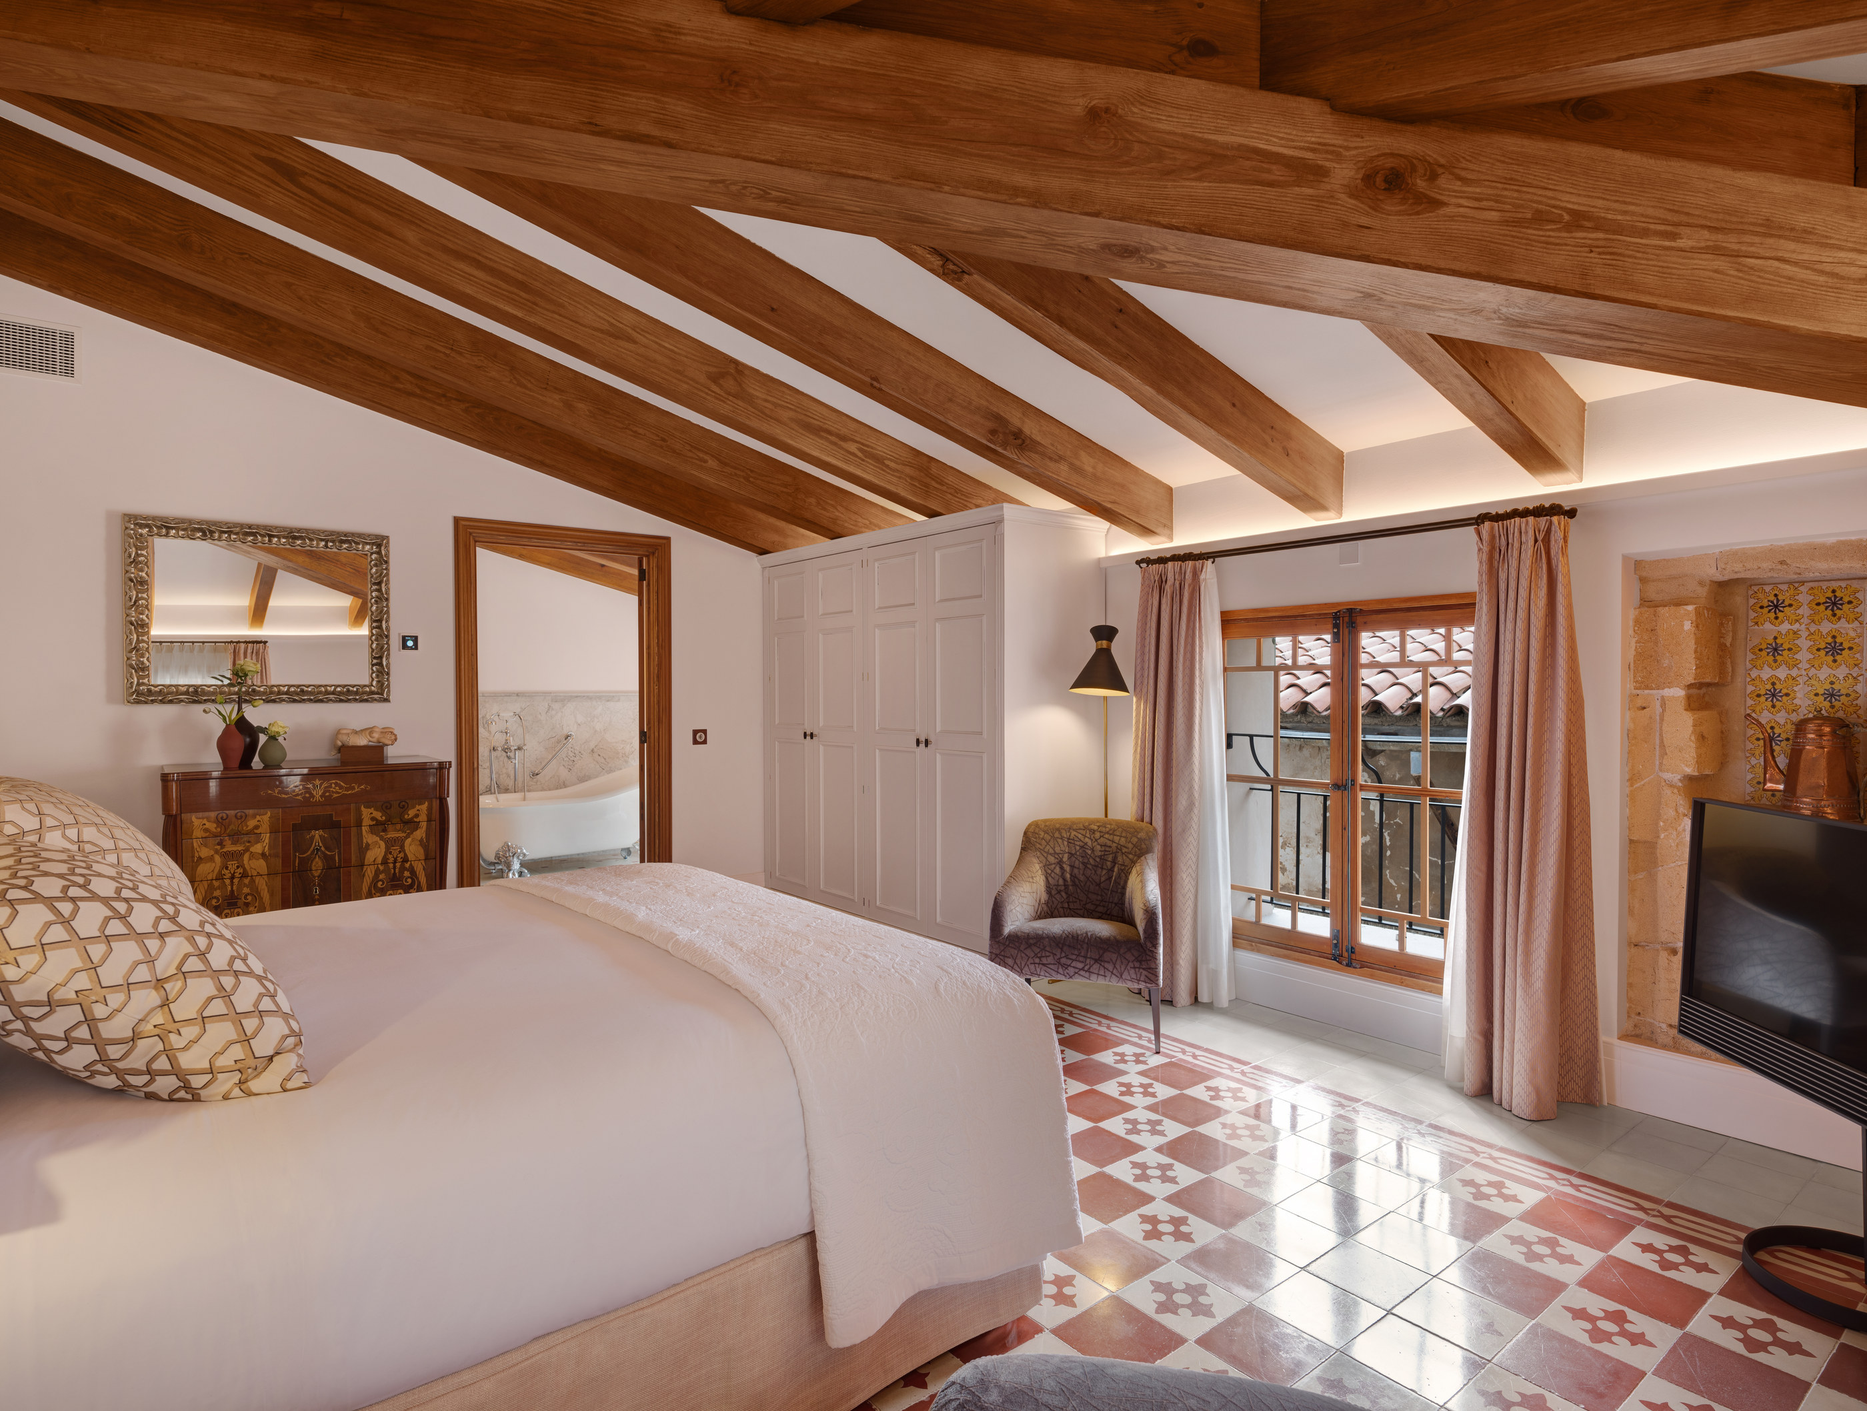
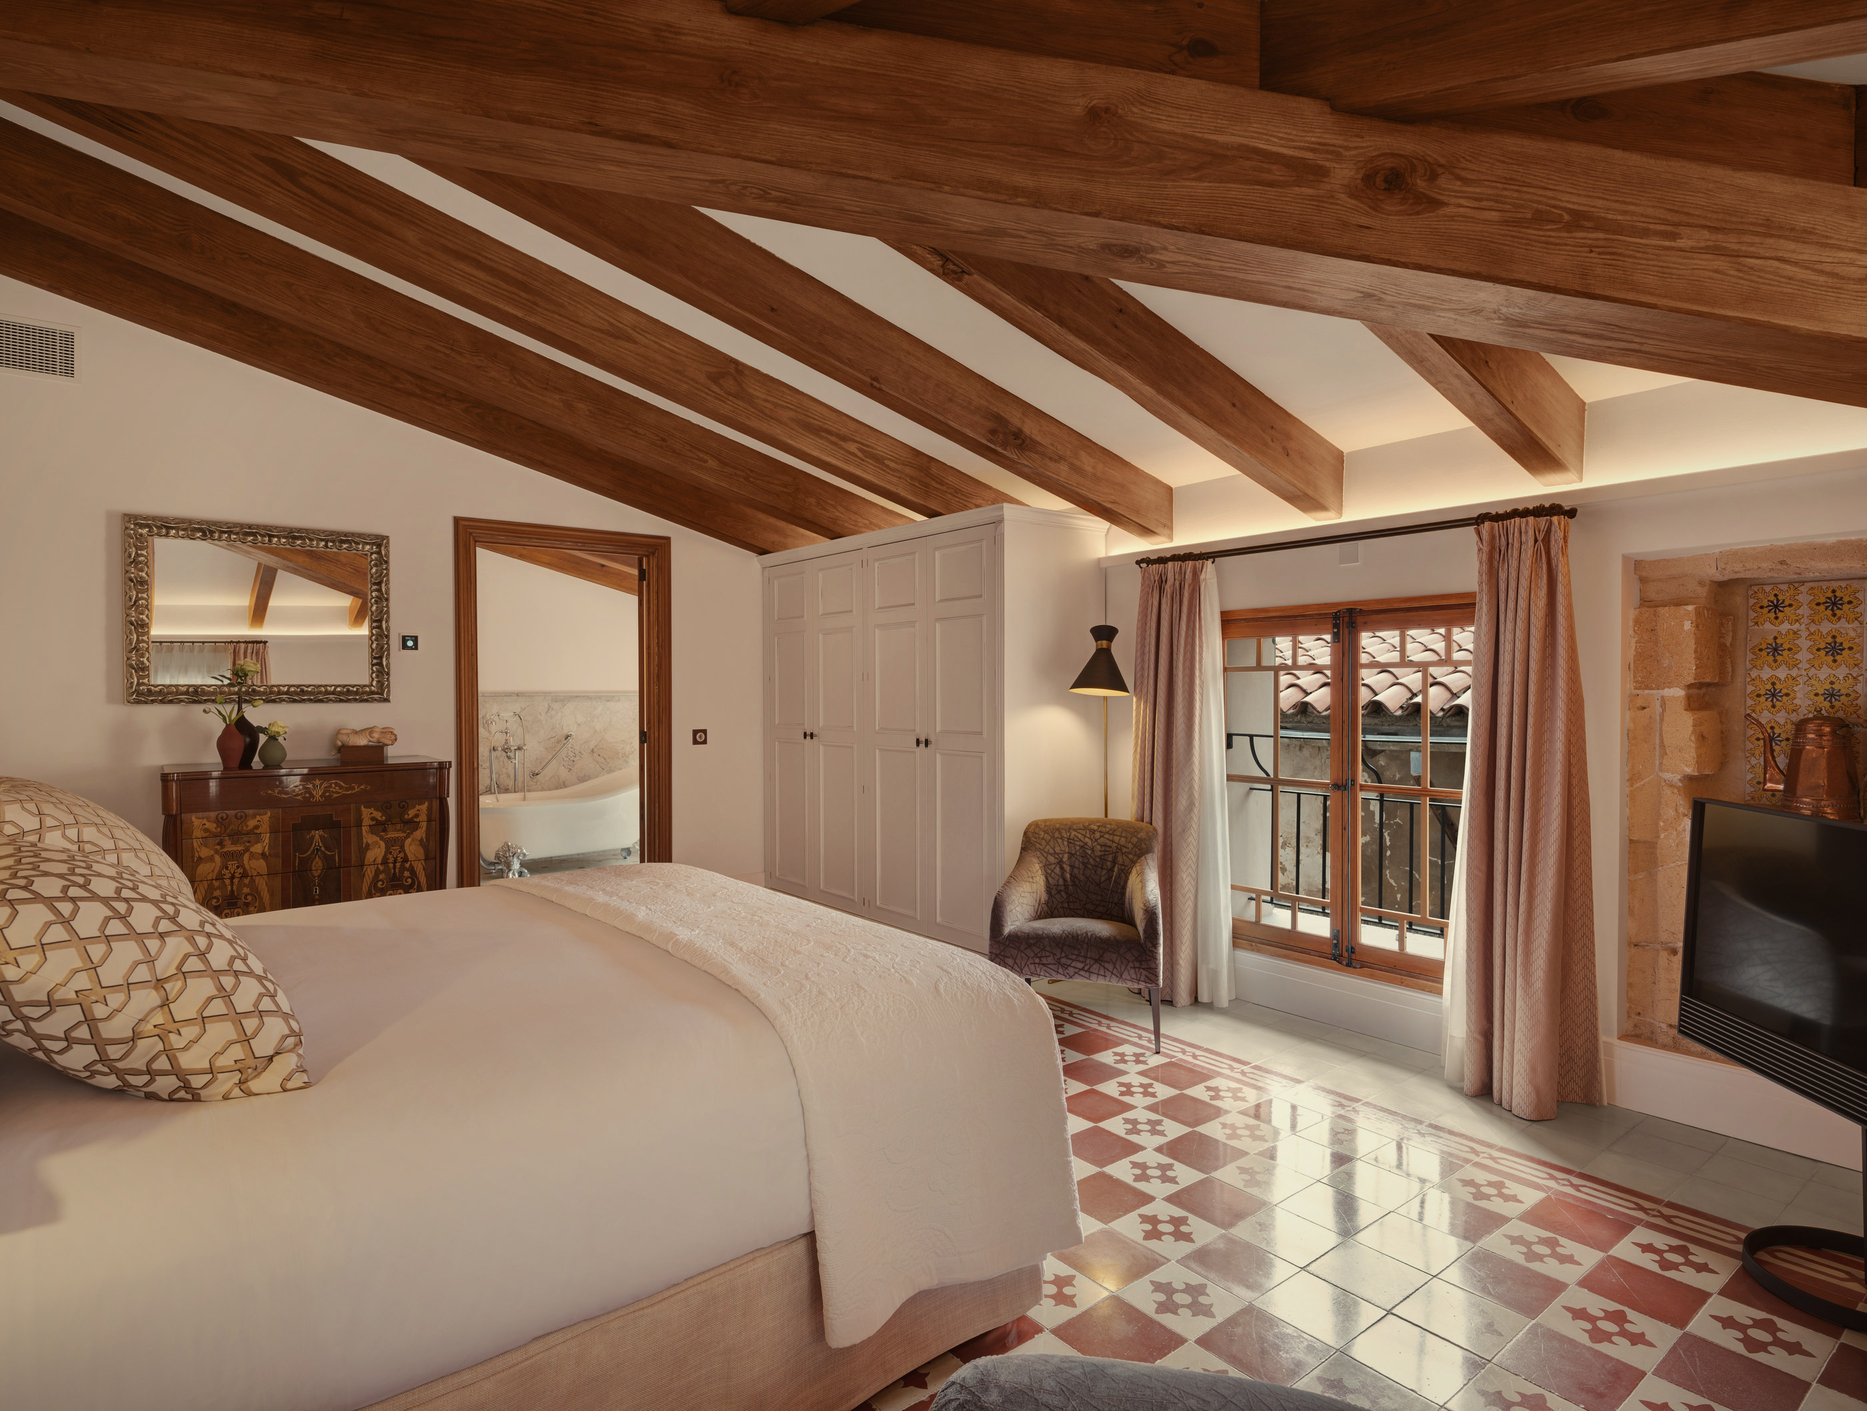
feat: Habitaciones replicando el mockup de Lara (hero con flecha, proporciones, Más que una habitación a sangre, reserva) + tono cálido

diff --git a/rooms.html b/rooms.html
@@ -12,7 +12,7 @@
 <link rel="preconnect" href="https://fonts.googleapis.com">
 <link rel="preconnect" href="https://fonts.gstatic.com" crossorigin>
 <link rel="stylesheet" href="https://fonts.googleapis.com/css2?family=Cormorant+Garamond:wght@500;600;700&family=Karma:wght@300;400;500;600;700&family=Montserrat:wght@400;500;600&display=swap">
-<link rel="stylesheet" href="css/styles.css?v=39">
+<link rel="stylesheet" href="css/styles.css?v=41">
 <link rel="stylesheet" href="css/concierge.css?v=2">
 </head>
 <body>
@@ -38,17 +38,18 @@
 </header>
 
 <!-- ================= HERO ================= -->
-<section class="page-hero center">
-  <img fetchpriority="high" class="bg" src="img/rooms-hero.jpg?v=46bb6611" alt="A room at Glòria de Sant Jaume">
+<section class="page-hero center rm-hero">
+  <img fetchpriority="high" class="bg" src="img/rooms-hero.jpg?v=f7999ccd" alt="A room at Glòria de Sant Jaume">
   <div class="hero-in">
     <span class="eyebrow" style="color:rgba(243,237,226,.85)">Rooms &amp; Suites</span>
     <h1>More than a stay,<br>a place to belong.</h1>
     <p class="sub">Fourteen rooms. Fourteen individual stories.</p>
+    <a class="rm-down" href="#rooms-intro" aria-label="Scroll down"><svg viewBox="0 0 24 24" width="18" height="18" fill="none" stroke="currentColor" stroke-width="1.3" aria-hidden="true"><path d="M6 9l6 6 6-6"/></svg></a>
   </div>
 </section>
 
 <!-- ================= THE ROOMS ================= -->
-<section class="section">
+<section class="section rm-intro" id="rooms-intro">
   <div class="wrap two-col">
     <div>
       <span class="eyebrow">The Rooms</span>
@@ -56,15 +57,15 @@
       <p class="muted">No two rooms at Glòria are quite the same. The architecture of the house gives each space its own character, while individually selected antique furniture, original works by Mallorcan artists and carefully chosen materials make every room feel distinctly its own.</p>
       <p class="muted">Contemporary comfort is woven naturally into each space, without taking away from the character of the house.</p>
     </div>
-    <div style="display:grid;grid-template-columns:1fr 1fr;gap:12px;height:100%">
-      <div class="imgframe"><img loading="lazy" decoding="async" src="img/rooms-char-1.jpg?v=d9be60b7" alt="Room with balcony"></div>
-      <div class="imgframe"><img loading="lazy" decoding="async" src="img/rooms-char-2.jpg?v=06d06179" alt="Antique furniture detail"></div>
+    <div class="rm-pair">
+      <div class="imgframe"><img loading="lazy" decoding="async" src="img/rooms-char-1.jpg?v=1ea29064" alt="Room with balcony"></div>
+      <div class="imgframe"><img loading="lazy" decoding="async" src="img/rooms-char-2.jpg?v=a979535e" alt="Antique furniture detail"></div>
     </div>
   </div>
 </section>
 
 <!-- ================= FIND YOUR ROOM ================= -->
-<section class="section" style="background:var(--cream-2)">
+<section class="section rm-find" style="background:var(--cream-2)">
   <div class="wrap">
     <div style="display:flex;justify-content:space-between;align-items:flex-end;flex-wrap:wrap;gap:16px">
       <div>
@@ -75,9 +76,9 @@
       <a class="link-arrow" href="#" data-book>View all rooms →</a>
     </div>
     <div class="cat-grid cat-grid-3">
-      <div class="cat"><div class="imgframe"><img loading="lazy" decoding="async" src="img/rooms-cat-superior.jpg?v=7c22666b" alt="Superior Room"></div><h3>Superior Room</h3><p>A refined setting with enhanced space and comfort.</p><a class="link-arrow" href="#" data-book>Discover →</a></div>
-      <div class="cat"><div class="imgframe"><img loading="lazy" decoding="async" src="img/rooms-cat-junior.jpg?v=e354ff15" alt="Junior Suite"></div><h3>Junior Suite</h3><p>A room with a lounge area, to settle in and feel at home.</p><a class="link-arrow" href="#" data-book>Discover →</a></div>
-      <div class="cat"><div class="imgframe"><img loading="lazy" decoding="async" src="img/rooms-cat-duplex.jpg?v=e9501c18" alt="Duplex Suite"></div><h3>Duplex Suite</h3><p>A unique two-level suite, with an unmistakable character.</p><a class="link-arrow" href="#" data-book>Discover →</a></div>
+      <div class="cat"><div class="imgframe"><img loading="lazy" decoding="async" src="img/rooms-cat-superior.jpg?v=bd0b67d7" alt="Superior Room"></div><h3>Superior Room</h3><p>A refined setting with enhanced space and comfort.</p><a class="link-arrow" href="#" data-book>Discover →</a></div>
+      <div class="cat"><div class="imgframe"><img loading="lazy" decoding="async" src="img/rooms-cat-junior.jpg?v=ffb60422" alt="Junior Suite"></div><h3>Junior Suite</h3><p>A room with a lounge area, to settle in and feel at home.</p><a class="link-arrow" href="#" data-book>Discover →</a></div>
+      <div class="cat"><div class="imgframe"><img loading="lazy" decoding="async" src="img/rooms-cat-duplex.jpg?v=edfbcc4e" alt="Duplex Suite"></div><h3>Duplex Suite</h3><p>A unique two-level suite, with an unmistakable character.</p><a class="link-arrow" href="#" data-book>Discover →</a></div>
     </div>
   </div>
 </section>
@@ -90,21 +91,21 @@
       <h2>Beams, tiles and light.</h2>
     </div>
     <div class="rg-grid">
-      <figure class="rg-item rg-1"><div class="imgframe"><img loading="lazy" decoding="async" src="img/rooms-gallery-1.jpg?v=2bdbf2c9" alt="Superior Junior Suite bathroom with freestanding bath and marés stone"></div></figure>
-      <figure class="rg-item rg-2"><div class="imgframe"><img loading="lazy" decoding="async" src="img/rooms-gallery-2.jpg?v=bc4210ce" alt="A room with Mallorcan wooden beams"></div></figure>
-      <figure class="rg-item rg-3"><div class="imgframe"><img loading="lazy" decoding="async" src="img/rooms-gallery-3.jpg?v=b2937756" alt="Duplex Suite bedroom under the beams"></div></figure>
-      <figure class="rg-item rg-4"><div class="imgframe"><img loading="lazy" decoding="async" src="img/rooms-gallery-4.jpg?v=5e3756cd" alt="Superior Junior Suite with hydraulic tiles"></div></figure>
-      <figure class="rg-item rg-5"><div class="imgframe"><img loading="lazy" decoding="async" src="img/rooms-gallery-5.jpg?v=03386a7f" alt="Duplex Suite living room and staircase"></div></figure>
-      <figure class="rg-item rg-6"><div class="imgframe"><img loading="lazy" decoding="async" src="img/rooms-gallery-6.jpg?v=d8049653" alt="A bright room with original windows"></div></figure>
-      <figure class="rg-item rg-7"><div class="imgframe"><img loading="lazy" decoding="async" src="img/rooms-gallery-7.jpg?v=e0a248db" alt="Reading corner with stone wall"></div></figure>
-      <figure class="rg-item rg-8"><div class="imgframe"><img loading="lazy" decoding="async" src="img/rooms-gallery-8.jpg?v=8f3ec74e" alt="Fireplace corner in the Duplex Suite"></div></figure>
-      <figure class="rg-item rg-9"><div class="imgframe"><img loading="lazy" decoding="async" src="img/rooms-gallery-9.jpg?v=117a30ab" alt="Bedside detail"></div></figure>
+      <figure class="rg-item rg-1"><div class="imgframe"><img loading="lazy" decoding="async" src="img/rooms-gallery-1.jpg?v=c86c78cf" alt="Superior Junior Suite bathroom with freestanding bath and marés stone"></div></figure>
+      <figure class="rg-item rg-2"><div class="imgframe"><img loading="lazy" decoding="async" src="img/rooms-gallery-2.jpg?v=80e39a4b" alt="A room with Mallorcan wooden beams"></div></figure>
+      <figure class="rg-item rg-3"><div class="imgframe"><img loading="lazy" decoding="async" src="img/rooms-gallery-3.jpg?v=7ce0671b" alt="Duplex Suite bedroom under the beams"></div></figure>
+      <figure class="rg-item rg-4"><div class="imgframe"><img loading="lazy" decoding="async" src="img/rooms-gallery-4.jpg?v=4d10f58a" alt="Superior Junior Suite with hydraulic tiles"></div></figure>
+      <figure class="rg-item rg-5"><div class="imgframe"><img loading="lazy" decoding="async" src="img/rooms-gallery-5.jpg?v=e098408f" alt="Duplex Suite living room and staircase"></div></figure>
+      <figure class="rg-item rg-6"><div class="imgframe"><img loading="lazy" decoding="async" src="img/rooms-gallery-6.jpg?v=928f922f" alt="A bright room with original windows"></div></figure>
+      <figure class="rg-item rg-7"><div class="imgframe"><img loading="lazy" decoding="async" src="img/rooms-gallery-7.jpg?v=b5f97676" alt="Reading corner with stone wall"></div></figure>
+      <figure class="rg-item rg-8"><div class="imgframe"><img loading="lazy" decoding="async" src="img/rooms-gallery-8.jpg?v=36244995" alt="Fireplace corner in the Duplex Suite"></div></figure>
+      <figure class="rg-item rg-9"><div class="imgframe"><img loading="lazy" decoding="async" src="img/rooms-gallery-9.jpg?v=89d691e2" alt="Bedside detail"></div></figure>
     </div>
   </div>
 </section>
 
 <!-- ================= YOUR STAY ================= -->
-<section class="section">
+<section class="section rm-stay">
   <div class="wrap two-col">
     <div>
       <span class="eyebrow">Your Stay</span>
@@ -113,18 +114,18 @@
       <div class="stack-cta"><a class="link-arrow" href="experiences.html">Discover the experience →</a></div>
     </div>
     <div class="compose-3">
-      <div class="imgframe big"><img loading="lazy" decoding="async" src="img/rooms-stay-breakfast.jpg?v=21137f3d" alt="Breakfast at El Patio"></div>
-      <div class="imgframe"><img loading="lazy" decoding="async" src="img/rooms-stay-spa.jpg?v=0aecdde2" alt="Wellness beneath the house"></div>
-      <div class="imgframe"><img loading="lazy" decoding="async" src="img/rooms-stay-piano.jpg?v=955d3263" alt="Piano at El Patio"></div>
+      <div class="imgframe big"><img loading="lazy" decoding="async" src="img/rooms-stay-breakfast.jpg?v=2259c295" alt="Breakfast at El Patio"></div>
+      <div class="imgframe"><img loading="lazy" decoding="async" src="img/rooms-stay-spa.jpg?v=81c826f6" alt="Wellness beneath the house"></div>
+      <div class="imgframe"><img loading="lazy" decoding="async" src="img/rooms-stay-piano.jpg?v=d7ffdefb" alt="Piano at El Patio"></div>
     </div>
   </div>
 </section>
 
 <!-- ================= STAY AT GLÒRIA (booking) ================= -->
-<section class="section" id="book" style="background:var(--cream-2);text-align:center">
+<section class="section rm-book" id="book" style="text-align:center">
   <div class="wrap">
     <span class="eyebrow">Stay at Glòria</span>
-    <h2 style="margin-inline:auto;max-width:20ch">Make the house your own for a few days.</h2>
+    <h2>Make the house your own for a few days.</h2>
     <form class="booking-bar" data-booking-form style="margin-top:8px">
       <label class="field"><span class="k">Check-in</span><input class="v" type="date" name="arrival" required></label>
       <label class="field"><span class="k">Check-out</span><input class="v" type="date" name="departure" required></label>

diff --git a/css/styles.css b/css/styles.css
@@ -1221,3 +1221,31 @@ html,body{overflow-x:clip}                       /* el menú móvil fuera de pan
 .wl-hero .hero-in{padding-top:clamp(70px,6vw,100px)}
 .quote-band p{max-width:none!important;white-space:nowrap}
 @media (max-width:900px){ .quote-band p{white-space:normal} .wl-hero{min-height:88svh!important} }
+
+/* =====================================================================
+   Habitaciones · réplica del mockup de Lara (26-09)
+   ===================================================================== */
+.rm-hero{min-height:clamp(380px,30vw,480px)!important}
+.rm-hero h1{font-size:clamp(2.4rem,4.4vw,3.6rem);line-height:1.05}
+.rm-down{display:inline-flex;margin-top:14px;color:var(--cream);opacity:.85}
+.rm-intro{padding-block:clamp(32px,3vw,48px)!important;background:var(--paper)}
+.rm-intro .two-col{grid-template-columns:.95fr 1.1fr!important;align-items:center!important}
+.rm-intro .rm-pair{display:grid;grid-template-columns:1fr 1fr;gap:10px;margin:0!important}
+.rm-intro .rm-pair .imgframe{aspect-ratio:.95/1}
+.rm-intro h2{font-size:clamp(2rem,3.2vw,2.8rem)}
+.rm-find{padding-block:clamp(32px,3vw,48px)!important}
+.rm-find .muted{max-width:none!important}
+.rm-stay{padding-block:0!important;background:var(--paper)}
+@media (min-width:901px){
+  .rm-stay .two-col{grid-template-columns:.8fr 1.85fr!important;align-items:stretch!important}
+  .rm-stay .two-col > div:first-child{align-self:center;padding-block:clamp(40px,4vw,64px)}
+  .rm-stay .compose-3{margin-right:var(--bleed);display:grid;grid-template-columns:1.05fr 1fr;grid-template-rows:1fr 1fr;gap:6px;height:clamp(420px,34vw,560px)}
+  .rm-stay .compose-3 .imgframe{height:100%;aspect-ratio:auto!important}
+  .rm-stay .compose-3 .big{grid-row:1 / span 2}
+}
+.rm-book{background:linear-gradient(180deg,var(--cream-2),var(--cream))}
+.rm-book h2{max-width:none!important;margin-inline:auto;font-size:clamp(1.8rem,3vw,2.5rem)}
+.rm-book .booking-bar{max-width:880px;margin-inline:auto}
+.rm-book .btn-olive{background:#2F3B33;border-color:#2F3B33;color:#F2EDE4}
+.rm-book > .wrap > div:last-child{max-width:880px!important}
+.rm-intro .rm-pair .imgframe{aspect-ratio:.78/1}

diff --git a/index.html b/index.html
@@ -14,7 +14,7 @@
 <link rel="preconnect" href="https://fonts.googleapis.com">
 <link rel="preconnect" href="https://fonts.gstatic.com" crossorigin>
 <link rel="stylesheet" href="https://fonts.googleapis.com/css2?family=Cormorant+Garamond:wght@500;600;700&family=Karma:wght@300;400;500;600;700&family=Montserrat:wght@400;500;600&display=swap">
-<link rel="stylesheet" href="css/styles.css?v=39">
+<link rel="stylesheet" href="css/styles.css?v=41">
 <link rel="stylesheet" href="css/concierge.css?v=2">
 <meta property="og:type" content="website">
 <meta property="og:site_name" content="Glòria de Sant Jaume">

diff --git a/experiences.html b/experiences.html
@@ -12,7 +12,7 @@
 <link rel="preconnect" href="https://fonts.googleapis.com">
 <link rel="preconnect" href="https://fonts.gstatic.com" crossorigin>
 <link rel="stylesheet" href="https://fonts.googleapis.com/css2?family=Cormorant+Garamond:wght@500;600;700&family=Karma:wght@300;400;500;600;700&family=Montserrat:wght@400;500;600&display=swap">
-<link rel="stylesheet" href="css/styles.css?v=39">
+<link rel="stylesheet" href="css/styles.css?v=41">
 <link rel="stylesheet" href="css/concierge.css?v=2">
 <style>
   .exp-hero{position:relative;min-height:74vh;display:flex;align-items:center;color:var(--cream);

diff --git a/cookies.html b/cookies.html
@@ -12,7 +12,7 @@
 <link rel="preconnect" href="https://fonts.googleapis.com">
 <link rel="preconnect" href="https://fonts.gstatic.com" crossorigin>
 <link rel="stylesheet" href="https://fonts.googleapis.com/css2?family=Cormorant+Garamond:wght@500;600;700&family=Karma:wght@300;400;500;600;700&family=Montserrat:wght@400;500;600&display=swap">
-<link rel="stylesheet" href="css/styles.css?v=39">
+<link rel="stylesheet" href="css/styles.css?v=41">
 <link rel="stylesheet" href="css/concierge.css?v=2">
 <link rel="stylesheet" href="css/legal.css?v=4">
 </head>

diff --git a/legal.html b/legal.html
@@ -12,7 +12,7 @@
 <link rel="preconnect" href="https://fonts.googleapis.com">
 <link rel="preconnect" href="https://fonts.gstatic.com" crossorigin>
 <link rel="stylesheet" href="https://fonts.googleapis.com/css2?family=Cormorant+Garamond:wght@500;600;700&family=Karma:wght@300;400;500;600;700&family=Montserrat:wght@400;500;600&display=swap">
-<link rel="stylesheet" href="css/styles.css?v=39">
+<link rel="stylesheet" href="css/styles.css?v=41">
 <link rel="stylesheet" href="css/concierge.css?v=2">
 <link rel="stylesheet" href="css/legal.css?v=4">
 </head>

diff --git a/privacy.html b/privacy.html
@@ -12,7 +12,7 @@
 <link rel="preconnect" href="https://fonts.googleapis.com">
 <link rel="preconnect" href="https://fonts.gstatic.com" crossorigin>
 <link rel="stylesheet" href="https://fonts.googleapis.com/css2?family=Cormorant+Garamond:wght@500;600;700&family=Karma:wght@300;400;500;600;700&family=Montserrat:wght@400;500;600&display=swap">
-<link rel="stylesheet" href="css/styles.css?v=39">
+<link rel="stylesheet" href="css/styles.css?v=41">
 <link rel="stylesheet" href="css/concierge.css?v=2">
 <link rel="stylesheet" href="css/legal.css?v=4">
 </head>

diff --git a/el-patio.html b/el-patio.html
@@ -12,7 +12,7 @@
 <link rel="preconnect" href="https://fonts.googleapis.com">
 <link rel="preconnect" href="https://fonts.gstatic.com" crossorigin>
 <link rel="stylesheet" href="https://fonts.googleapis.com/css2?family=Cormorant+Garamond:wght@500;600;700&family=Karma:wght@300;400;500;600;700&family=Montserrat:wght@400;500;600&display=swap">
-<link rel="stylesheet" href="css/styles.css?v=39">
+<link rel="stylesheet" href="css/styles.css?v=41">
 <link rel="stylesheet" href="css/concierge.css?v=2">
 </head>
 <body>

diff --git a/palma.html b/palma.html
@@ -12,7 +12,7 @@
 <link rel="preconnect" href="https://fonts.googleapis.com">
 <link rel="preconnect" href="https://fonts.gstatic.com" crossorigin>
 <link rel="stylesheet" href="https://fonts.googleapis.com/css2?family=Cormorant+Garamond:wght@500;600;700&family=Karma:wght@300;400;500;600;700&family=Montserrat:wght@400;500;600&display=swap">
-<link rel="stylesheet" href="css/styles.css?v=39">
+<link rel="stylesheet" href="css/styles.css?v=41">
 <link rel="stylesheet" href="css/concierge.css?v=2">
 </head>
 <body>

diff --git a/the-house.html b/the-house.html
@@ -12,7 +12,7 @@
 <link rel="preconnect" href="https://fonts.googleapis.com">
 <link rel="preconnect" href="https://fonts.gstatic.com" crossorigin>
 <link rel="stylesheet" href="https://fonts.googleapis.com/css2?family=Cormorant+Garamond:wght@500;600;700&family=Karma:wght@300;400;500;600;700&family=Montserrat:wght@400;500;600&display=swap">
-<link rel="stylesheet" href="css/styles.css?v=39">
+<link rel="stylesheet" href="css/styles.css?v=41">
 <link rel="stylesheet" href="css/concierge.css?v=2">
 </head>
 <body>

diff --git a/wellness.html b/wellness.html
@@ -12,7 +12,7 @@
 <link rel="preconnect" href="https://fonts.googleapis.com">
 <link rel="preconnect" href="https://fonts.gstatic.com" crossorigin>
 <link rel="stylesheet" href="https://fonts.googleapis.com/css2?family=Cormorant+Garamond:wght@500;600;700&family=Karma:wght@300;400;500;600;700&family=Montserrat:wght@400;500;600&display=swap">
-<link rel="stylesheet" href="css/styles.css?v=39">
+<link rel="stylesheet" href="css/styles.css?v=41">
 <link rel="stylesheet" href="css/concierge.css?v=2">
 </head>
 <body>
